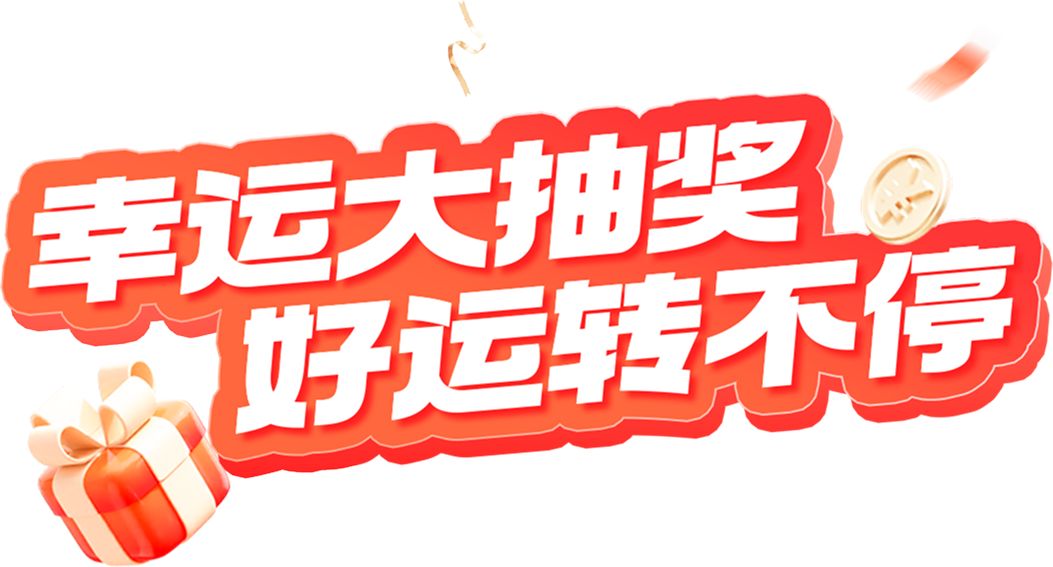
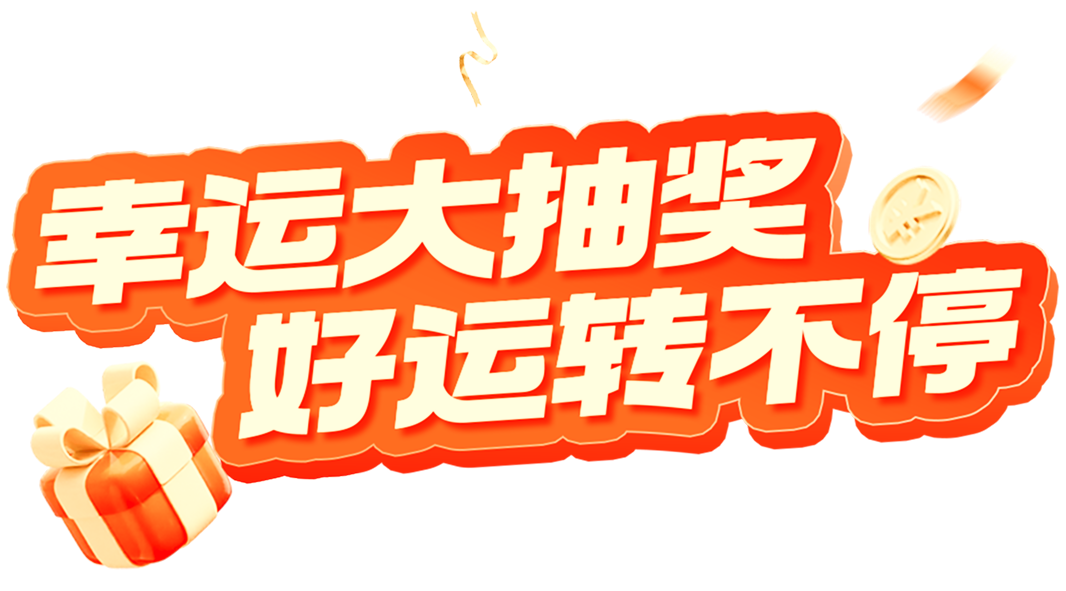
no message

diff --git a/src/pages/lottery/index.vue b/src/pages/lottery/index.vue
@@ -1,12 +1,12 @@
 <template>
-  <layout navTitle="幸运大抽奖" bgType="bg-main5" mode="white">
+  <layout navTitle="幸运大抽奖" bgType="bg-main5" mode="black">
 
     <template v-slot:navRight>
       <view
         class="flex flex-row w-full items-center justify-end bg-black/10 px-[16rpx] py-[4rpx] rounded-[24rpx]"
         @click="goLotteryRecord()"
       >
-        <text class="text-base mr-[2rpx] text-white">中奖记录</text>
+        <text class="text-sm mr-[2rpx] text-black">中奖记录</text>
       </view>
     </template>
 
@@ -14,24 +14,24 @@
     <view class="lottery-container">
       <view class="flex flex-col justify-center items-center relative z-10 px-[32rpx] relative h-[400rpx]">
         <!-- <text class="text-[3em] font-bold">幸运大抽奖</text> -->
-        <image
+        <!-- <image
           class="w-[390rpx] mt-[200rpx] z-0"
           src="/static/images/index/lottery_title_icon.png"
           mode="widthFix"
-        ></image>
+        ></image> -->
         <image
-          class="w-[702rpx] absolute top-0 left-[36rpx] z-1"
+          class="w-[702rpx] absolute -top-[46rpx] left-[36rpx] z-1"
           src="/static/images/index/lottery_title_bg.png"
           mode="widthFix"
         ></image>
       </view>
-      <view class="flex justify-center items-center relative z-10 -top-[40rpx] left-[10rpx]">
+      <view class="flex justify-center items-center relative z-10 -top-[100rpx] left-[10rpx] z-0">
         <view class="ci_shu text-neutral-black rounded-b-[0rpx]">今日剩余抽奖次数：{{ remain_count }}</view>
       </view>
       <view class="grid-container relative -mt-[150rpx]">
-        <image src="/static/images/index/bg_lottery.png" class="absolute top-0 left-0 w-full h-[822rpx]" ></image>
+        <image src="/static/images/index/bg_lottery.png" class="absolute top-0 left-0 w-full h-[858rpx]" ></image>
         <!-- 奖项1 -->
-         <view class="grid-container-inner relative top-[140rpx]">
+         <view class="grid-container-inner relative top-[110rpx] left-[10rpx]">
           <view
             v-for="(item, index) in prizes"
             :key="index"
@@ -71,9 +71,9 @@
       </view>
       <view
         v-if="lottery_jifen_switch == 1"
-        class="z-10 relative px-[32rpx] py-[20rpx] bg-[#252C2F40] inline-block rounded-full absolute top-[230rpx] left-[50%] translate-x-[-50%]"
+        class="z-10 relative px-[32rpx] py-[20rpx] inline-block rounded-full absolute top-[185rpx] left-[50%] translate-x-[-50%]"
       >
-        <view class="text-white">可用积分 <text class="ml-[8rpx]">{{ user_jifen }}</text></view>
+        <view class="text-black text-sm">可用积分 <text class="ml-[8rpx]">{{ user_jifen }}</text></view>
       </view>
       <view class="w-full flex justify-center items-center" v-if="false">
         <view @click="goLotteryRecord" class="look_log">查看中奖记录</view>
@@ -123,12 +123,12 @@
       </view>
     </view>
 
-    <fui-modal :buttons="[]" :boxRadius="0" width="400" :show="zjShow">
+    <fui-modal :buttons="[]" :boxRadius="0" width="400" :show="zjShow" background="linear-gradient(0deg, #FFF 77.57%, #D9CDFF 100%)">
       <view class="zj_box">
         <image class="zj_img" :src="zjObj.img" mode="widthFix"></image>
         <view class="zj_str">{{ zjObj.name }}</view>
-        <wk-button @click="zjShow = false" class="w-full"
-          >确认</wk-button
+        <wk-button @click="zjShow = false" class="w-full" backgroundColor="#FE3355"
+          >我知道了</wk-button
         >
       </view>
     </fui-modal>
@@ -437,13 +437,13 @@ onShow(() => {
   }
 }
 .ci_shu {
-  background: #FFFFFF;
+  background: #FFC63C;
   border-radius: 24rpx;
   border-bottom-right-radius: 0px;
   border-bottom-left-radius: 0px;
   min-width: 300rpx;
   display: inline-block;
-  color: #F68A0C;
+  color: #010101;
   font-size: 24rpx;
   text-align: center;
   padding: 20rpx 28rpx;
@@ -522,16 +522,16 @@ onShow(() => {
   flex-direction: column;
   justify-content: center;
   align-items: center;
-  width: 128rpx;
-  height: 128rpx;
+  width: 120rpx;
+  height: 120rpx;
   overflow: hidden;
-  border: 6rpx solid #FFFFFF20;
+  border: 6rpx solid transparent;
   border-radius: 24rpx;
-  background: #ffffff;
+  background: #00000049;
 }
 
 .grid-item.highlight {
-  border-color: #06F; /* 高亮显示的样式 */
+  border-color: #FFF7AB; /* 高亮显示的样式 */
 }
 
 .prize-image {
@@ -545,12 +545,12 @@ onShow(() => {
   left: 0;
   text-align: center;
   width: 100%;
-  background: #F5F8FD;
+  background: #00000050;
   height: 38rpx;
   display: flex;
   align-items: center;
   justify-content: center;
-  color: #010101;
+  color: #FFFFFF;
   font-weight: 500;
   font-size: 20rpx;
   overflow: hidden;
@@ -596,7 +596,7 @@ onShow(() => {
 .rule-bg {
   padding: 0 32rpx;
   padding-bottom: 24rpx;
-  background: linear-gradient(#F24941 0%, #F24841 100%);
+  background: #FFE3A5;
   padding-top: 260rpx;
 }
 .rule_box {
@@ -609,7 +609,7 @@ onShow(() => {
   background-repeat: no-repeat;
   border-radius: 32rpx;
   overflow: hidden;
-  background: #B52E02;
+  background: #FF7C22;
   .rule_box_title {
     color: #FFFFFF80;
     display: inline-block;
@@ -635,7 +635,7 @@ onShow(() => {
   flex-direction: column;
   padding: 0 24rpx;
   box-sizing: border-box;
-  background: #FFFFFF;
+  // background: #FFFFFF;
   
   // border-radius: 16rpx;
   border-radius: 0px;
@@ -666,6 +666,8 @@ onShow(() => {
     // background:theme('colors.neutral.cardBg') !important;
     border-radius: 24rpx !important;
     // border: 1px solid rgba(255, 255, 255, 0.10) !important;
+    // 方法2：通过深度选择器设置渐变色背景（如果使用此方法，需要移除 background prop）
+    // background: linear-gradient(135deg, #667eea 0%, #764ba2 100%) !important;
 }
 
 // 小卡片样式
@@ -697,7 +699,7 @@ onShow(() => {
   align-items: center;
   border-radius: 360px;
   border: 0.5px solid #f6d875;
-  background: linear-gradient(0deg, #ff8a33 0%, #ff4a4a 51.8%), #ff4a4a;
+  background: linear-gradient(0deg, #FFEACC 0%, #FFE3A5 51.8%), #FFE3A5;
   background-blend-mode: soft-light, normal, normal;
 }
 

diff --git a/src/pages/store/detail.vue b/src/pages/store/detail.vue
@@ -3,7 +3,7 @@
     ref="layoutRef"
     navTitle="商品详情"
     bgType="bg-main"
-    
+    navBgColor="#FFFFFF"
     :refresher="true"
     @onRefresh="handleRefresh"
   >
@@ -38,7 +38,7 @@
       mode="widthFix"
     ></image>
     <view class="p-[32rpx] pb-[150rpx]">
-      <wk-stroke-bg shadow class="flex flex-col rounded-[8rpx] p-[16rpx]">
+      <wk-stroke-bg shadow class="flex flex-col rounded-[32rpx] p-[16rpx]">
         
         <view class="flex flex-row justify-between items-center">
           <view class="flex flex-row items-center">
@@ -57,7 +57,7 @@
         <view class="text-xl text-neutral font-medium mt-[33rpx]">{{ product_name }}</view>
       </wk-stroke-bg>
       <wk-stroke-bg shadow
-        class="bg-white flex flex-row justify-between items-center p-[16rpx] mt-[24rpx] rounded-[8rpx]"
+        class="bg-white flex flex-row justify-between items-center p-[16rpx] mt-[24rpx] rounded-[32rpx]"
       >
         <view class="">兑换数量</view>
         <view class="flex flex-row items-center">

diff --git a/src/pages/invite/detail.vue b/src/pages/invite/detail.vue
@@ -1,7 +1,7 @@
 <template>
   <layout
     navTitle="邀请好友"
-    bgType="bg-main3"
+    bgType="bg-main"
     ref="layoutRef"
     :refresher="true"
     @onRefresh="handleRefresh"
@@ -33,7 +33,7 @@
           </view>
         </view>
         <view
-          class="bg-[#FBFBFB] rounded-[16rpx] w-[360rpx] h-[360rpx] box-border mt-[32rpx]"
+          class="rounded-[16rpx] w-[360rpx] h-[360rpx] box-border mt-[32rpx]"
         >
           <view
             class="w-full h-full flex flex-col justify-center items-center mt-[5rpx]"
@@ -109,7 +109,7 @@
       css="background: #fff; box-sizing: border-box; position: relative; width: 750rpx; height: 100%; position: relative;"
     >
       <l-painter-image
-        src="/static/images/bg/main3.png"
+        src="/static/images/bg/main.png"
         css="position: absolute; top: 0; left: 0; z-index: -1;width: 100%; height: 100%;"
       />
       <l-painter-view

diff --git a/src/pages/invite/index.vue b/src/pages/invite/index.vue
@@ -13,7 +13,7 @@
           class="w-[240rpx] h-[240rpx]"
           mode="widthFix"
         ></image>
-        <text class="text-base text-neutral mt-[48rpx]"
+        <text class="text-base text-[#252C2F75] mt-[48rpx]"
           >请根据对方的手机系统进行邀请</text
         >
       </view>
@@ -32,6 +32,7 @@
                 <text class="text-sm text-gray-500 mt-[8rpx] block">{{ os.description }}</text>
               </view>
             </view>
+            <view class="h-[1px] bg-black/10 w-full my-[16rpx]"></view>
             <view class="flex gap-[16rpx] w-full">
               <wk-button
                 class="flex-1"

diff --git a/src/pages/lottery/record.vue b/src/pages/lottery/record.vue
@@ -4,7 +4,7 @@
     :refresher="true"
     @onRefresh="handleRefresh"
     navTitle="中奖记录"
-    bgType="bg-main"
+    bgType="bg-main5"
     
     @reachBottom="getPaginationList"
   >
@@ -14,6 +14,15 @@
           :list="typeList"
           :isButton="true"
           @change="changeType"
+          :activeStyle="{
+            background: '#FFFFFF25',
+            color: '#20242A',
+          }"
+          :inactiveStyle="{
+            background: 'transparent',
+            color: '#252C2F',
+            border: 'none'
+          }"
         ></wk-tabs>
       </view>
 

diff --git a/src/pages/store/list.vue b/src/pages/store/list.vue
@@ -111,7 +111,7 @@
               class="rounded-[16rpx] overflow-hidden"
             >
               <image
-                class="w-full h-[342rpx] bg-black/10"
+                class="w-full h-[331rpx] bg-black/10 rounded-[16rpx] overflow-hidden"
                 :src="item.image"
                 mode="aspectFit"
               ></image>

diff --git a/src/pages/store/exchange.vue b/src/pages/store/exchange.vue
@@ -3,7 +3,7 @@
     <view class="mt-[24rpx]">
       <view class="">
         <wk-stroke-bg 
-          bgColor="#9AEEDE"
+          bgColor="#98EDFB"
           v-if="type == 0"
           shadow
           borderRadius="0"
